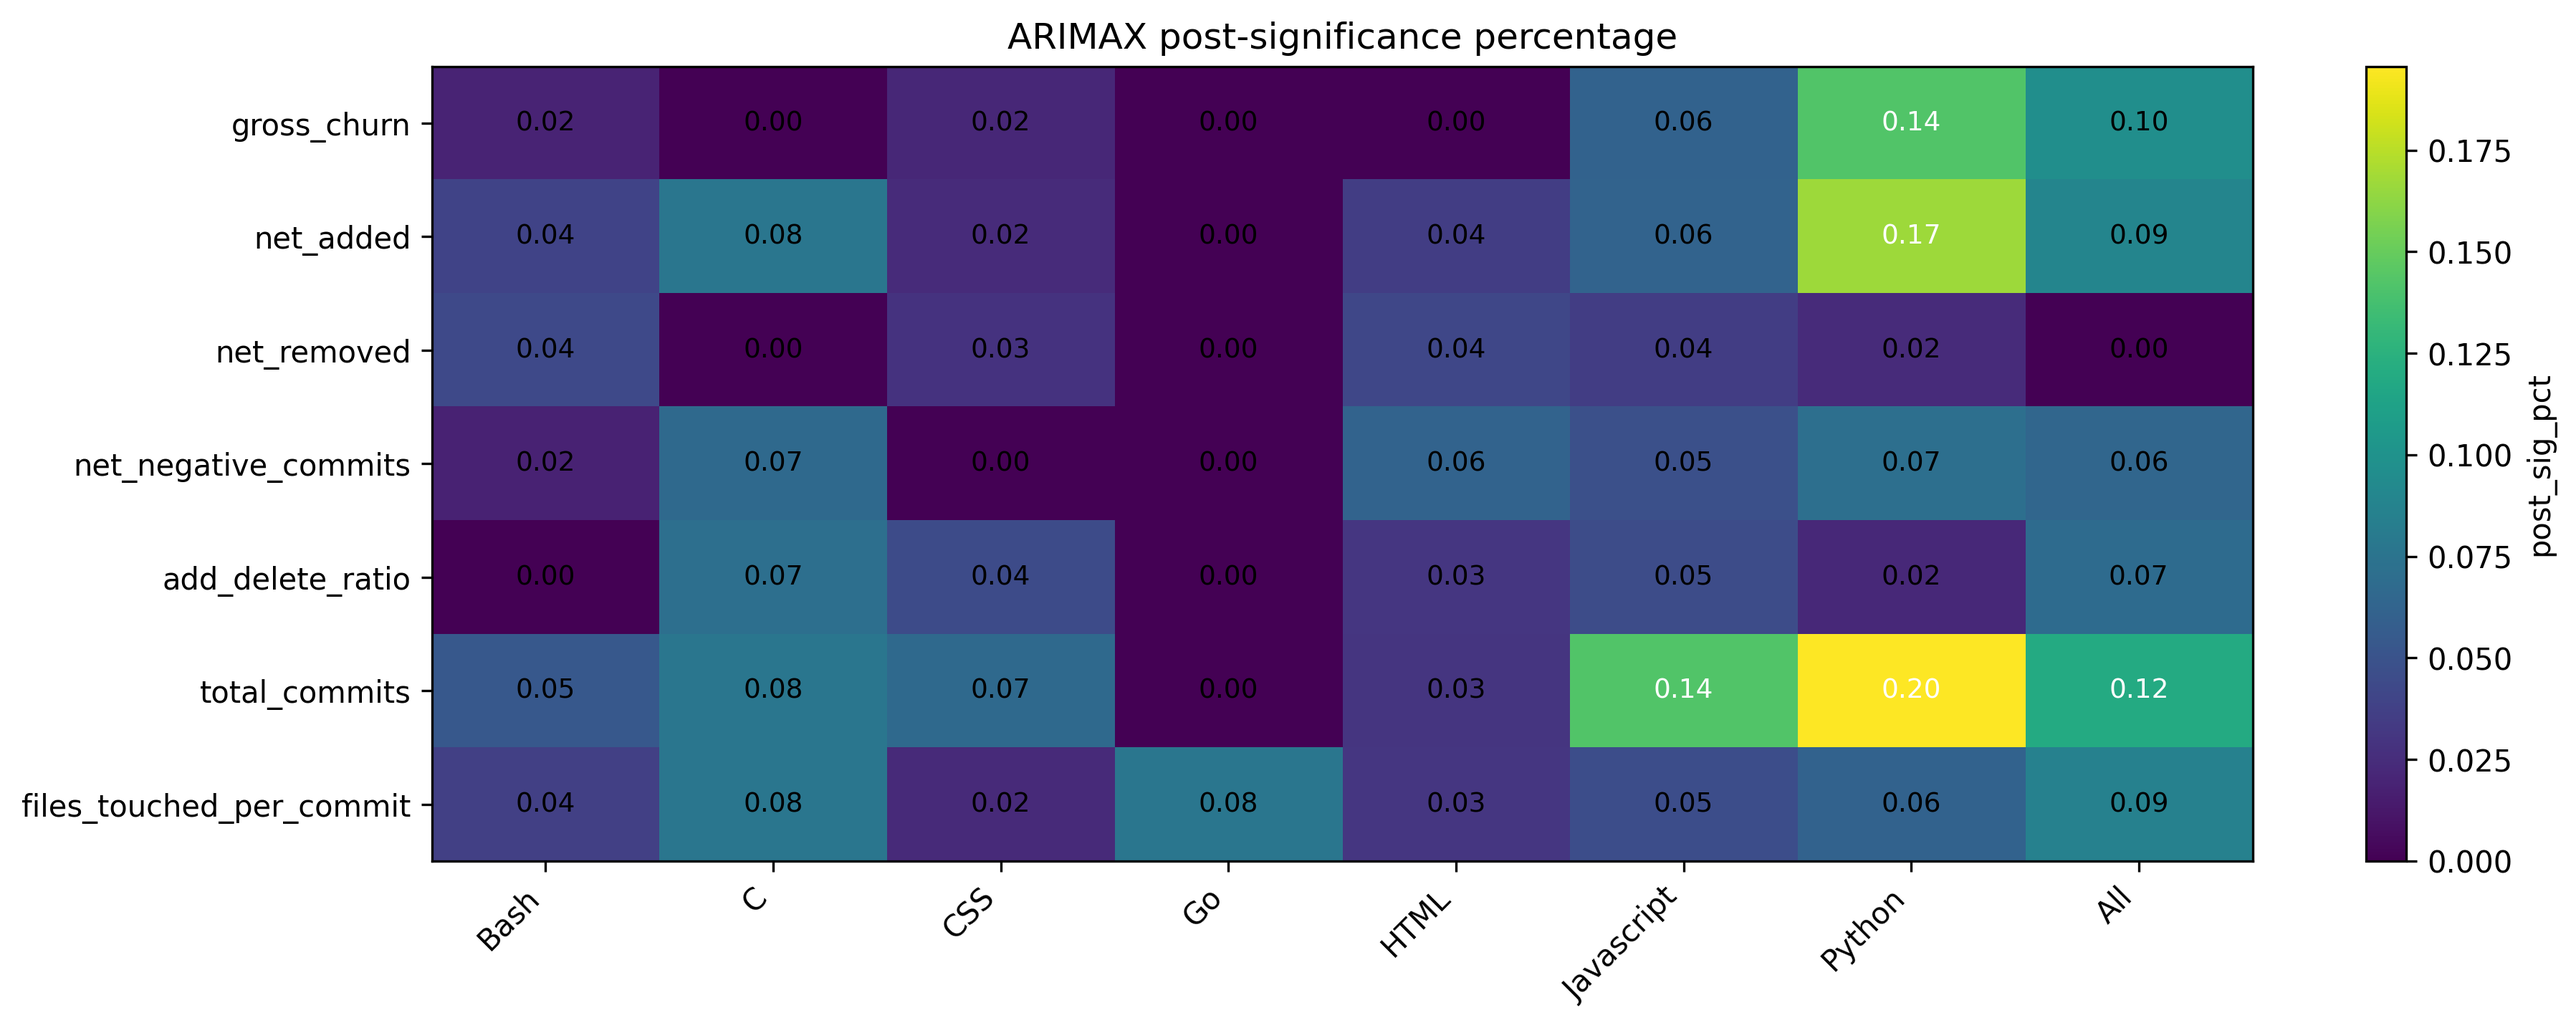
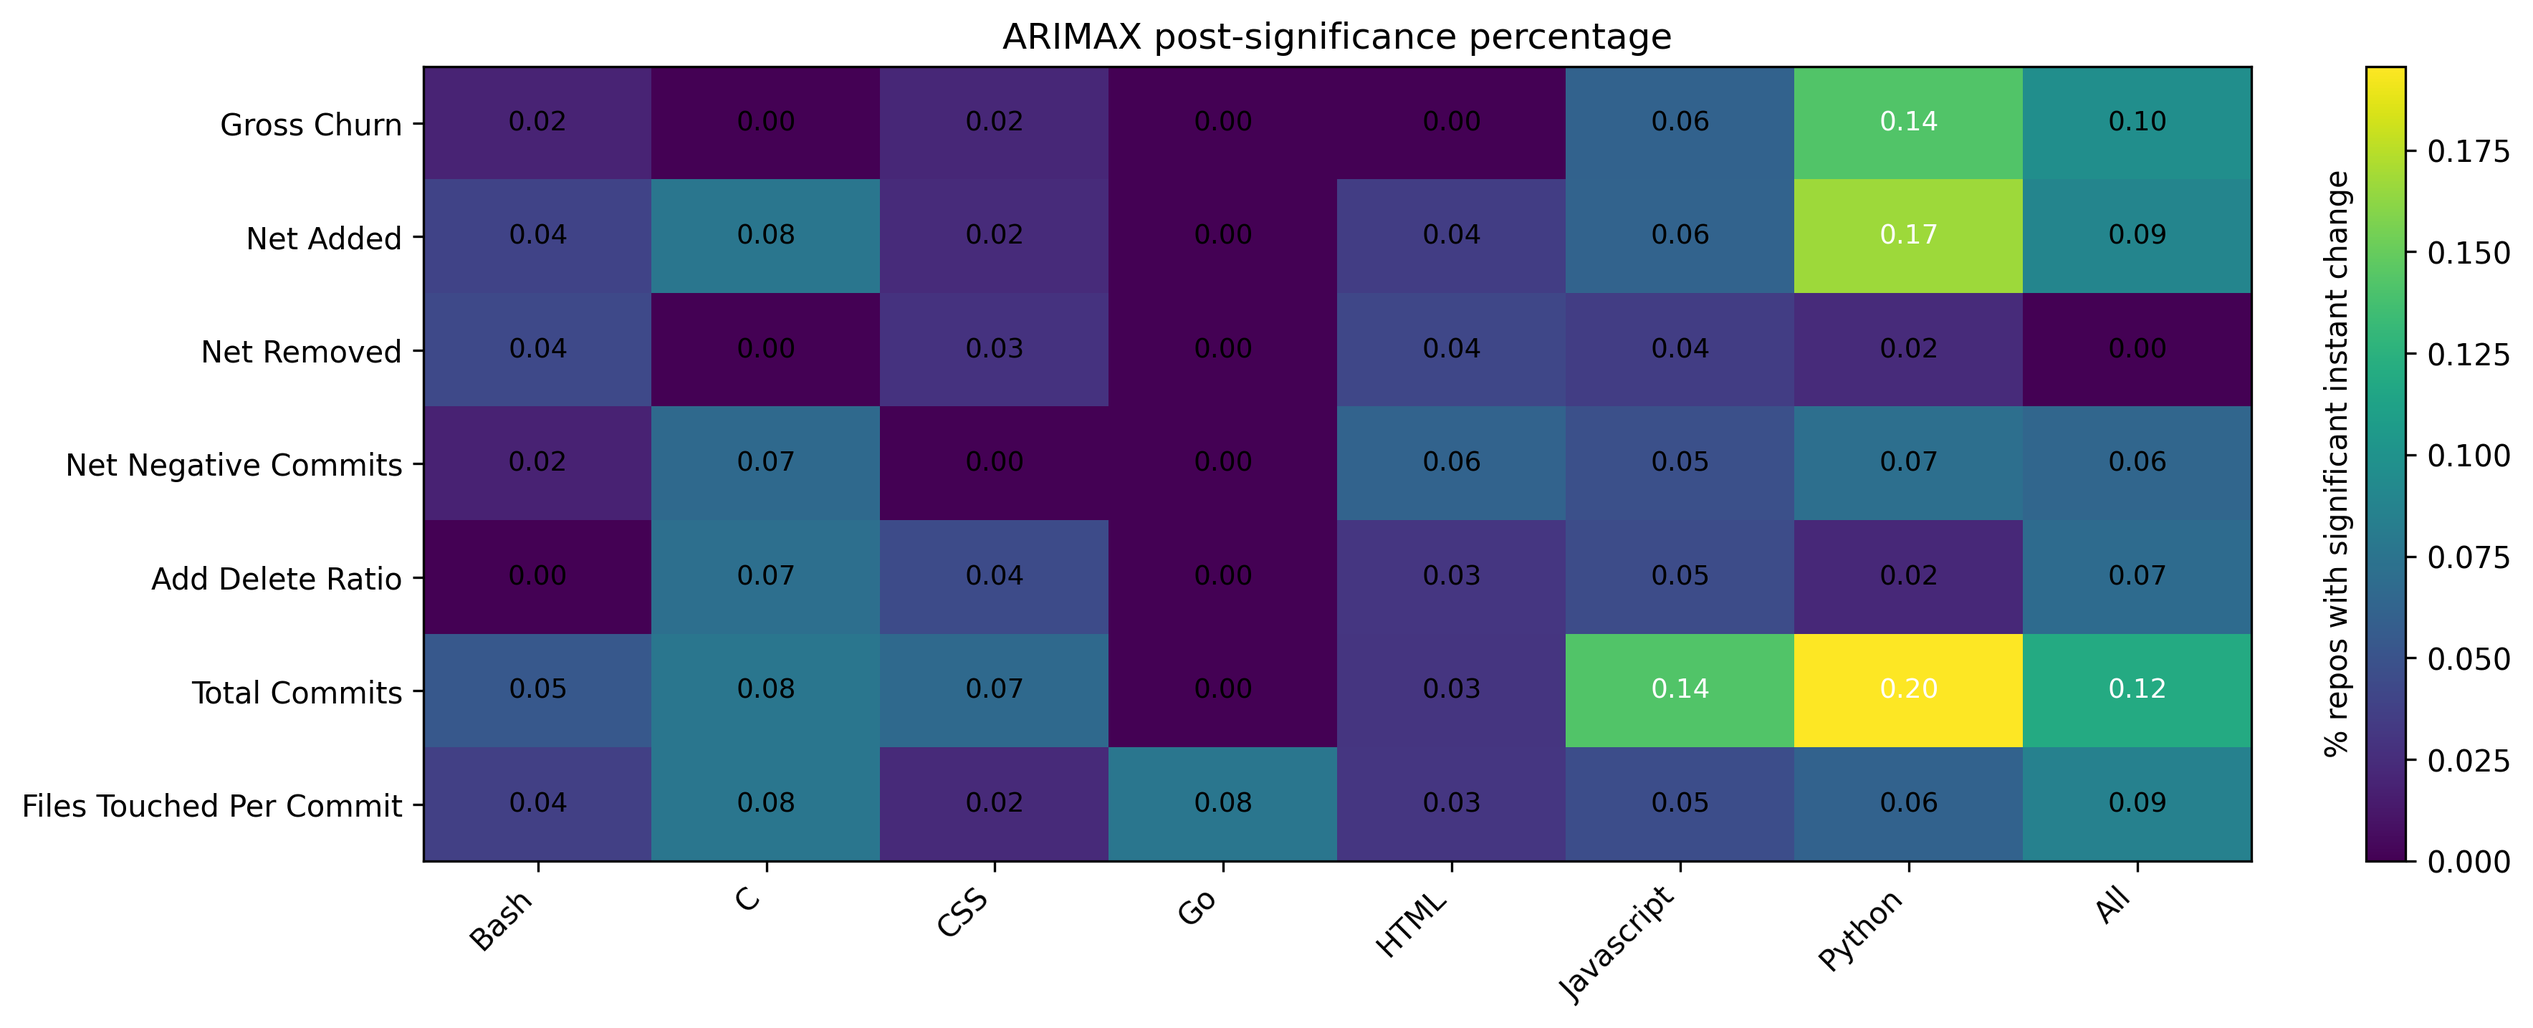
Improved chart labels and marged all plots to results plot file

diff --git a/processing_scripts/arimax_result_plots.py b/processing_scripts/arimax_result_plots.py
@@ -1,3 +1,4 @@
+# %%
 from __future__ import annotations
 
 import math
@@ -8,9 +9,33 @@ import matplotlib.pyplot as plt
 import numpy as np
 import pandas as pd
 
+from interact_with_neo4j import get_file_extension_mappings
+
 ARIMAX_CSV = Path("churn_arimax_summary.csv")
 TTEST_CSV = Path("churn_paired_ttest_summary.csv")
 OUTPUT_DIR = Path("arimax_result_plots")
+SIGNIFICANCE_LEVEL = 0.1
+
+METRICS = [
+    "gross_churn",
+    "net_added",
+    "net_removed",
+    "net_negative_commits",
+    "add_delete_ratio",
+    "total_commits",
+    "files_touched_per_commit",
+    "files_touched",
+    "churn",
+    "net_modified",
+    "is_net_negative",
+]
+METRIC_LABELS = {
+    v: v.replace("_", " ").title() for v in METRICS
+}
+print(METRIC_LABELS)
+
+# %%
+
 
 # keep weird characters away from file names (for saving plots)
 def sanitize_filename(text: str) -> str:
@@ -84,6 +109,7 @@ def make_heatmap(df: pd.DataFrame, title: str, cbar_label: str, output_path: Pat
     
     cbar = fig.colorbar(im, ax=ax)
     cbar.set_label(cbar_label)
+    cbar.ax.yaxis.set_label_position("left")
     fig.tight_layout()
     fig.savefig(output_path, dpi=300, bbox_inches="tight")
     plt.close(fig)
@@ -94,19 +120,83 @@ def save_arimax_heatmaps(arimax_df: pd.DataFrame, outdir: Path, suffix: str = ""
     metric_order = default_metric_order(arimax_df["metric"].unique())
     group_order = sort_groups(arimax_df["group"].unique())
 
-    for value_col, title_stub in [
-        ("post_sig_pct", "ARIMAX post-significance percentage"),
-        ("trend_sig_pct", "ARIMAX trend-significance percentage"),
+    for value_col, title_stub, cbar_label in [
+        ("post_sig_pct", "ARIMAX post-significance percentage", "% repos with significant instant change"),
+        ("trend_sig_pct", "ARIMAX trend-significance percentage", "% repos with significant trend change"),
     ]:
         pivot_df = arimax_df.pivot(index="metric", columns="group", values=value_col)
         pivot_df = pivot_df.reindex(index=metric_order, columns=group_order)
+        pivot_df.index = [METRIC_LABELS.get(m, m) for m in pivot_df.index]
 
         make_heatmap(
             pivot_df,
             title=f"{title_stub}{suffix}",
-            cbar_label=value_col,
+            cbar_label=cbar_label,
             output_path=outdir / f"heatmap_{sanitize_filename(value_col)}{sanitize_filename(suffix)}.png",
         )
+
+
+def plot_sarima_significance(summary_df: pd.DataFrame, group: str, output_path: Path) -> None:
+    df = summary_df[summary_df["group"] == group].set_index("metric")
+    df = df.reindex(default_metric_order(df.index)).dropna()
+    df.index = [METRIC_LABELS.get(m, m) for m in df.index]
+
+    x = np.arange(len(df))
+    width = 0.35
+
+    fig, ax = plt.subplots(figsize=(12, 6))
+    bars1 = ax.bar(x - width / 2, df["post_sig_pct"] * 100, width, label="Level change (post)", color="#4C72B0")
+    bars2 = ax.bar(x + width / 2, df["trend_sig_pct"] * 100, width, label="Trend change (time_after)", color="#DD8452")
+
+    ax.axhline(y=SIGNIFICANCE_LEVEL * 100, color="red", linestyle="--", linewidth=1, label=f"Significance threshold ({int(SIGNIFICANCE_LEVEL * 100)}%)")
+    ax.set_xlabel("Metric")
+    ax.set_ylabel("% of repos with significant effect")
+    ax.set_title(f"SARIMA: Proportion of Repos with Significant Churn Effects — {group} files")
+    ax.set_xticks(x)
+    ax.set_xticklabels(df.index, rotation=30, ha="right")
+    ax.set_ylim(0, 100)
+    ax.legend()
+
+    for bar in bars1:
+        h = bar.get_height()
+        ax.text(bar.get_x() + bar.get_width() / 2, h + 1, f"{h:.0f}%", ha="center", va="bottom", fontsize=8)
+    for bar in bars2:
+        h = bar.get_height()
+        ax.text(bar.get_x() + bar.get_width() / 2, h + 1, f"{h:.0f}%", ha="center", va="bottom", fontsize=8)
+
+    fig.tight_layout()
+    fig.savefig(output_path, dpi=150)
+    plt.close(fig)
+    print(f"Saved chart to {output_path}")
+
+
+def plot_trend_direction(summary_df: pd.DataFrame, group : str, output_path : Path) -> None:
+    df = summary_df[summary_df["group"] == group].set_index("metric")
+    df = df.reindex(default_metric_order(df.index)).dropna()
+    df.index = [METRIC_LABELS.get(m, m) for m in df.index]
+
+    x = np.arange(len(df))
+    width = 0.6
+
+    pos = df["trend_pos_sig_pct"] * 100
+    neg = df["trend_neg_sig_pct"] * 100
+
+    fig, ax = plt.subplots(figsize=(12, 6))
+    ax.bar(x, pos, width, label="Significant positive trend change", color="#55A868")
+    ax.bar(x, neg, width, bottom=pos, label="Significant negative trend change", color="#C44E52")
+
+    ax.set_xlabel("Metric")
+    ax.set_ylabel("% of repos")
+    ax.set_title(f"SARIMA: Direction of Trend Change — {group} files")
+    ax.set_xticks(x)
+    ax.set_xticklabels(df.index, rotation=30, ha="right")
+    ax.set_ylim(0, 100)
+    ax.legend()
+
+    fig.tight_layout()
+    fig.savefig(output_path, dpi=150)
+    plt.close(fig)
+    print(f"Saved chart to {output_path}")
 
 
 def main() -> None:
@@ -148,6 +238,10 @@ def main() -> None:
         save_arimax_heatmaps(arimax_all, OUTPUT_DIR, suffix=" (All group)")
     else:
         print("No 'All' rows found in ARIMAX summary; skipping All-group ARIMAX plots.")
+
+    for group in ["All", "Python", "Javascript"]:
+        plot_sarima_significance(arimax_df, group=group, output_path=OUTPUT_DIR / f"churn_sarima_significance_{group.lower()}.png")
+        plot_trend_direction(arimax_df, group=group, output_path=OUTPUT_DIR / f"churn_sarima_trend_direction_{group.lower()}.png")
 
     print("Done.")
 

diff --git a/processing_scripts/arimax_analysis_of_churn.py b/processing_scripts/arimax_analysis_of_churn.py
@@ -409,89 +409,4 @@ ttest_df = pd.DataFrame(weekly_ttest_results + commit_ttest_results)
 ttest_df.to_csv("churn_paired_ttest_summary.csv", index=False)
 print(f"Saved {len(ttest_df)} rows")
 
-# %% Plot the SARIMA results
-
-import matplotlib.pyplot as plt
-import numpy as np
-
-def plot_sarima_significance(summary_df: pd.DataFrame, group: str = "All", output_path: str = "images/churn_sarima_significance.png"):
-    df = summary_df[summary_df["group"] == group].copy()
-    df = df.set_index("metric").reindex(weekly_metrics).dropna()
-
-    x = np.arange(len(df))
-    width = 0.35
-
-    fig, ax = plt.subplots(figsize=(12, 6))
-
-    bars1 = ax.bar(x - width / 2, df["post_sig_pct"] * 100, width, label="Level change (post)", color="#4C72B0")
-    bars2 = ax.bar(x + width / 2, df["trend_sig_pct"] * 100, width, label="Trend change (time_after)", color="#DD8452")
-
-    ax.axhline(y=SIGNIFICANCE_LEVEL * 100, color="red", linestyle="--", linewidth=1, label=f"Significance threshold ({int(SIGNIFICANCE_LEVEL * 100)}%)")
-
-    ax.set_xlabel("Metric")
-    ax.set_ylabel("% of repos with significant effect")
-    ax.set_title(f"SARIMA: Proportion of Repos with Significant Churn Effects — {group} files")
-    ax.set_xticks(x)
-    ax.set_xticklabels(df.index, rotation=30, ha="right")
-    ax.set_ylim(0, 100)
-    ax.legend()
-
-    for bar in bars1:
-        h = bar.get_height()
-        ax.text(bar.get_x() + bar.get_width() / 2, h + 1, f"{h:.0f}%", ha="center", va="bottom", fontsize=8)
-    for bar in bars2:
-        h = bar.get_height()
-        ax.text(bar.get_x() + bar.get_width() / 2, h + 1, f"{h:.0f}%", ha="center", va="bottom", fontsize=8)
-
-    fig.tight_layout()
-    fig.savefig(output_path, dpi=150)
-    plt.show()
-    print(f"Saved chart to {output_path}")
-
-plot_sarima_significance(summary_df)
-
-
-# %%
-
-def plot_trend_direction(
-    summary_df: pd.DataFrame,
-    group: str = "All",
-    output_path: str = "images/churn_sarima_trend_direction.png",
-):
-    df = summary_df[summary_df["group"] == group].copy()
-    df = df.set_index("metric").reindex(weekly_metrics).dropna()
-
-    x = np.arange(len(df))
-    width = 0.6
-
-    pos = df["trend_pos_sig_pct"] * 100
-    neg = df["trend_neg_sig_pct"] * 100
-
-    fig, ax = plt.subplots(figsize=(12, 6))
-    ax.bar(x, pos, width, label="Significant positive trend change", color="#55A868")
-    ax.bar(
-        x,
-        neg,
-        width,
-        bottom=pos,
-        label="Significant negative trend change",
-        color="#C44E52",
-    )
-
-    ax.set_xlabel("Metric")
-    ax.set_ylabel("% of repos")
-    ax.set_title(f"SARIMA: Direction of Trend Change — {group} files")
-    ax.set_xticks(x)
-    ax.set_xticklabels(df.index, rotation=30, ha="right")
-    ax.set_ylim(0, 100)
-    ax.legend()
-
-    fig.tight_layout()
-    fig.savefig(output_path, dpi=150)
-    plt.show()
-
-plot_trend_direction(summary_df)
-
-# %%
-plot_trend_direction(summary_df, group="Bash", output_path="images/churn_sarima_trend_direction_bash.png")
 # %%
